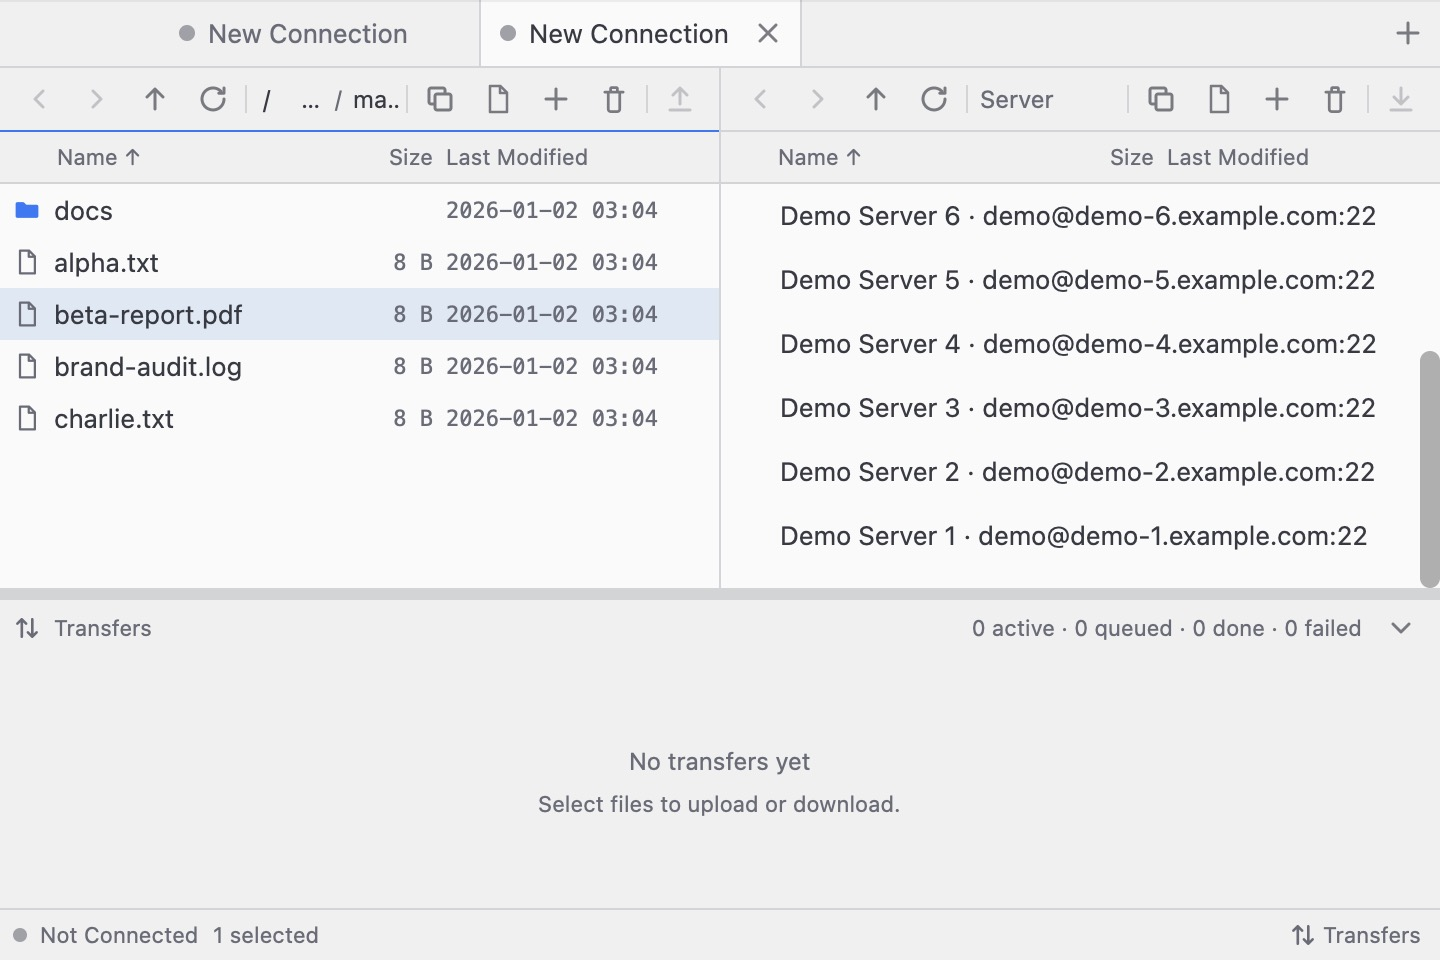
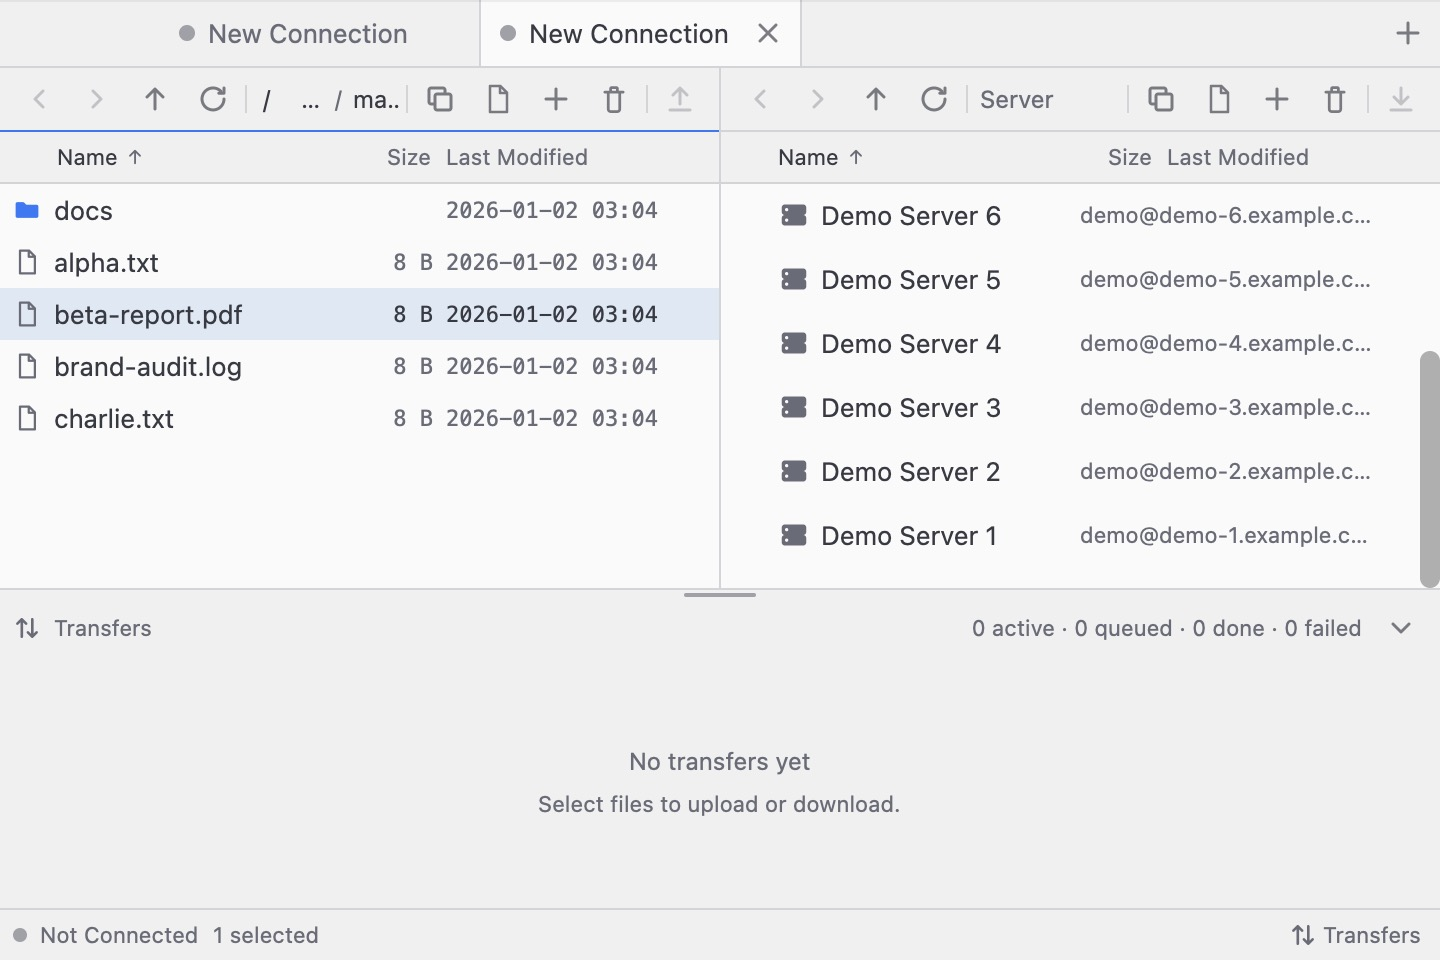
docs: document settings behavior and refresh visual evidence
Record the three-section Settings surface, delete-confirmation recovery, metadata policy defaults and warning semantics, sort icon contract, and the Base toggle/button rules. Refresh the workspace captures for the shared visual changes and add General (light and dark), Editor (dark) and Saved Connections (light).

diff --git a/docs/visual-evidence/workspace-ux/README.md b/docs/visual-evidence/workspace-ux/README.md
@@ -6,6 +6,8 @@ Three further captures show the visual-craft pass: a classified connection failu
 
 The type-select capture shows the accessibility pass: with the local pane focused, typing `b` moves the selection to `beta-report.pdf` and leaves every other row listed — no filter bar appears, because filtering is now an explicit action (⌘F, the menu/palette command or the filter field).
 
+The Settings captures show the three-section surface in both themes: General carries appearance, the delete-confirmation recovery switch, hidden files and transfer metadata preferences; Editor owns the external editor and its association rules; Saved Connections keeps the profile list and editor together. The General form scrolls at 480 pt instead of clipping, and its switches use the Base toggle contract (Tab, Enter/Space and `aria_toggled`) with the project's own track and knob. The sidebar entries are Base buttons, so they take keyboard focus as well as pointer clicks.
+
 The dark-maximized and light form-focus captures remain the original 2026-10-11 native preview captures of those layouts.
 
 | Capture | Verified behavior |
@@ -19,6 +21,10 @@ The dark-maximized and light form-focus captures remain the original 2026-10-11 
 | [Command palette, 720×480](light-palette-720x480.jpg) | The scrim token dims the workspace behind the elevated palette card |
 | [Two tabs, 720×480](light-two-tabs-720x480.jpg) | The inactive tab hides its close button; the active tab keeps it |
 | [Type-select, 720×480](light-type-select-720x480.jpg) | Typing `b` jumps the selection to the first match; the list stays complete and the filter bar stays hidden |
+| [Settings General, 720×480](light-settings-general-720x480.jpg) | Three sections in the sidebar; the behavior switches and the start of the transfer preferences stay visible while the form scrolls instead of clipping |
+| [Settings Editor, 720×480](dark-settings-editor-720x480.jpg) | The editor page owns the external-editor field and association rules; dark theme tokens apply to the whole surface |
+| [Settings Saved Connections, 720×480](light-settings-saved-connections-720x480.jpg) | The profile list and its selected editor share one surface; no credential value is rendered |
+| [Settings General, dark, 720×480](dark-settings-general-720x480.jpg) | The same switches keep their track/knob contrast on the dark surface |
 
 Refresh the headless captures with (the test writes PNGs because the renderer hands back RGBA; the committed files are JPEG):
 
@@ -27,13 +33,15 @@ cargo test -p macsftp-app regenerate_workspace_ux_evidence -- --ignored --nocapt
 cd docs/visual-evidence/workspace-ux
 for name in light-720x480 dark-720x480 light-recents-scroll-720x480 \
     light-failed-connection-720x480 light-palette-720x480 light-two-tabs-720x480 \
-    light-type-select-720x480; do
+    light-type-select-720x480 light-settings-general-720x480 \
+    dark-settings-editor-720x480 light-settings-saved-connections-720x480 \
+    dark-settings-general-720x480; do
     sips -s format jpeg -s formatOptions high "$name.png" --out "$name.jpg" && rm "$name.png"
 done
 ```
 
-Follow-up captures refreshed the light/dark workspace and recent list after centering queue guidance and reducing recent rows to 30px; the 2026-10-17 passes added the outward focus ring on the connection button, the path bar cluster rules, and the failed-connection, palette and two-tab captures. The accessibility pass added the type-select capture (its own `/tmp/macsftp-type-select` folder, which the capture creates if missing, writes into only while it is empty, and leaves empty afterwards, so it never touches an entry it did not write), refreshed the palette (it gained the sort commands), and pinned the second tab to the `/tmp/test` fixture — a fresh tab opens the home folder, so that capture used to embed this machine's home listing and drift with its timestamps. The 2026-10-18 quality polish pass updated the command palette top padding (48px) and viewport-adaptive height (ensuring the bottom shortcut legend is never clipped at 480pt), replaced the path-bar Delete icon with a trash can icon, aligned the table header 'Name' label with file row names, and gave breadcrumb tail segments shrink protection. Two consecutive regeneration runs are byte-identical. The light form-focus capture remains evidence from the first pass; the form itself is unchanged. Native keyboard traversal to the connection button and Enter opening its form were verified after excluding the pane shortcut in its context.
+Follow-up captures refreshed the light/dark workspace and recent list after centering queue guidance and reducing recent rows to 30px; the 2026-10-17 passes added the outward focus ring on the connection button, the path bar cluster rules, and the failed-connection, palette and two-tab captures. The accessibility pass added the type-select capture (its own `/tmp/macsftp-type-select` folder, which the capture creates if missing, writes into only while it is empty, and leaves empty afterwards, so it never touches an entry it did not write), refreshed the palette (it gained the sort commands), and pinned the second tab to the `/tmp/test` fixture — a fresh tab opens the home folder, so that capture used to embed this machine's home listing and drift with its timestamps. The 2026-10-18 quality polish pass updated the command palette top padding (48px) and viewport-adaptive height (ensuring the bottom shortcut legend is never clipped at 480pt), replaced the path-bar Delete icon with a trash can icon, aligned the table header 'Name' label with file row names, and gave breadcrumb tail segments shrink protection. Two consecutive regeneration runs are byte-identical. The light form-focus capture remains evidence from the first pass; the form itself is unchanged. The Settings and native-polish pass refreshed every workspace capture because the sort indicator, selected-row secondary text, recent-connection rows and drawer grabber are shared by all of them; the four Settings captures were added in the same run. Native keyboard traversal to the connection button and Enter opening its form were verified after excluding the pane shortcut in its context.
 
 Manual checks also covered the drawer header collapse button, reopening through the footer, ⌘J toggling, opening an empty local folder and its centered message. Automated geometry checks cover empty content in light/dark themes at 720×480 and 1200×800 and the path bar rules with their breadcrumb in a 360 pt pane; interaction tests cover preserved drawer height and wheel scrolling through recent connections. Unit tests cover the elevation scale order, the scrim range, the two-line error state and the tab close button hover behavior.
 
-Validation: `bash scripts/check.sh` (574 tests plus 2 ignored across the workspace, including 42 UI tests), Clippy with `-D warnings`, formatting, architecture isolation and sensitive-log checks passed. These captures document disconnected workspace behavior; live SFTP and active-transfer visuals were outside this layout change.
+Validation: `bash scripts/check.sh` (617 tests plus 2 ignored across the workspace, including 43 UI tests), Clippy with `-D warnings`, formatting, architecture isolation and sensitive-log checks passed. These captures document disconnected workspace behavior; live SFTP and active-transfer visuals were outside this layout change.
